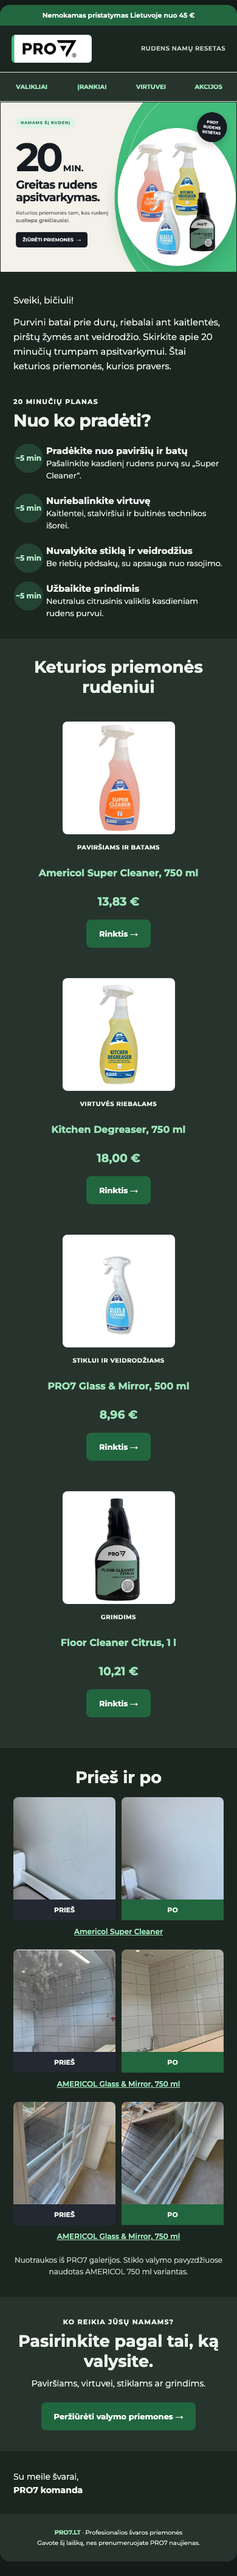
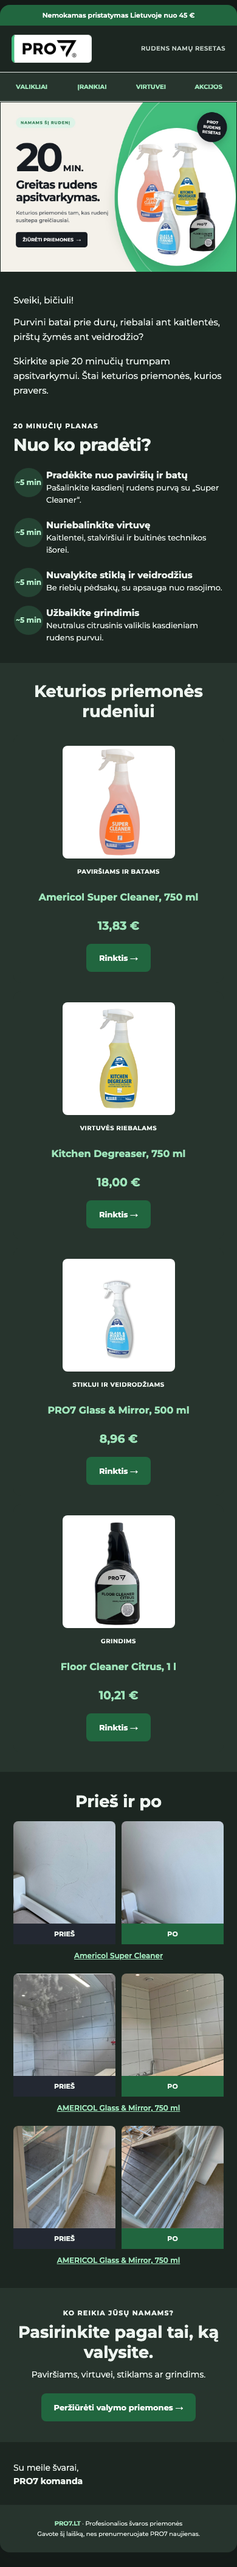
Refine newsletter intro and remove gallery note

Changed region(s): [[0.0308, 0.0311, 0.9538, 0.9328], [0.7385, 0.4353, 0.7692, 0.4664]]

diff --git a/nl2-20min-rudens-resetas/omnisend.html b/nl2-20min-rudens-resetas/omnisend.html
@@ -68,7 +68,8 @@
 
       <tr><td class="pad" style="padding:34px 38px 22px;font-family:Montserrat,Arial,sans-serif;color:#232832">
         <p class="greeting" style="margin:0 0 12px;font-size:15px;line-height:24px">Sveiki, [[contact.first_name|default:'bičiuli']]!</p>
-        <p style="margin:0;font-size:15px;line-height:24px">Purvini batai prie durų, riebalai ant kaitlentės, pirštų žymės ant veidrodžio. Skirkite apie 20 minučių trumpam apsitvarkymui. Štai keturios priemonės, kurios pravers.</p>
+        <p style="margin:0 0 16px;font-size:15px;line-height:24px">Purvini batai prie durų, riebalai ant kaitlentės, pirštų žymės ant veidrodžio?</p>
+        <p style="margin:0;font-size:15px;line-height:24px">Skirkite apie 20 minučių trumpam apsitvarkymui. Štai keturios priemonės, kurios pravers.</p>
       </td></tr>
 
       <tr><td class="pad" style="padding:17px 38px 12px;font-family:Montserrat,Arial,sans-serif;color:#232832">
@@ -122,7 +123,6 @@
 <table class="proof" role="presentation" width="100%" style="margin-top:16px"><tr><td width="50%" valign="top" style="padding:0 5px 0 0"><a href="https://www.pro7.lt/galerija"><img src="https://raw.githubusercontent.com/elaiskai/pro7-email-assets/5192498d5fea85a1396dcabc810df333ac065828/nl2-20min-rudens-resetas/assets/before-super-cleaner-email.jpg" width="258" alt="Siena prieš valymą, Americol Super Cleaner" style="width:100%;height:auto;border-radius:8px 8px 0 0"></a><div style="padding:9px;background:#232832;color:#ffffff;text-align:center;font-size:11px;line-height:16px;font-weight:700">PRIEŠ</div></td><td width="50%" valign="top" style="padding:0 0 0 5px"><a href="https://www.pro7.lt/galerija"><img src="https://raw.githubusercontent.com/elaiskai/pro7-email-assets/5192498d5fea85a1396dcabc810df333ac065828/nl2-20min-rudens-resetas/assets/after-super-cleaner-email.jpg" width="258" alt="Siena po valymo, Americol Super Cleaner" style="width:100%;height:auto;border-radius:8px 8px 0 0"></a><div style="padding:9px;background:#21663f;color:#ffffff;text-align:center;font-size:11px;line-height:16px;font-weight:700">PO</div></td></tr><tr><td colspan="2" align="center" style="padding:10px 0 4px;font-size:12px;line-height:18px;font-weight:600"><a href="https://www.pro7.lt/svaros-prekes/113-americol-super-cleaner-0-75-l-universalus-valiklis-koncentratas" style="color:#21663f;text-decoration:underline">Americol Super Cleaner</a></td></tr></table>
 <table class="proof" role="presentation" width="100%" style="margin-top:16px"><tr><td width="50%" valign="top" style="padding:0 5px 0 0"><a href="https://www.pro7.lt/galerija"><img src="https://raw.githubusercontent.com/elaiskai/pro7-email-assets/5192498d5fea85a1396dcabc810df333ac065828/nl2-20min-rudens-resetas/assets/pries-pro7-valymo-priemones-43f9a.jpg" width="258" alt="Veidrodis prieš valymą, AMERICOL Glass &amp; Mirror, 750 ml" style="width:100%;height:auto;border-radius:8px 8px 0 0"></a><div style="padding:9px;background:#232832;color:#ffffff;text-align:center;font-size:11px;line-height:16px;font-weight:700">PRIEŠ</div></td><td width="50%" valign="top" style="padding:0 0 0 5px"><a href="https://www.pro7.lt/galerija"><img src="https://raw.githubusercontent.com/elaiskai/pro7-email-assets/5192498d5fea85a1396dcabc810df333ac065828/nl2-20min-rudens-resetas/assets/po-pro7-valymo-priemones-3bbdc.jpg" width="258" alt="Veidrodis po valymo, AMERICOL Glass &amp; Mirror, 750 ml" style="width:100%;height:auto;border-radius:8px 8px 0 0"></a><div style="padding:9px;background:#21663f;color:#ffffff;text-align:center;font-size:11px;line-height:16px;font-weight:700">PO</div></td></tr><tr><td colspan="2" align="center" style="padding:10px 0 4px;font-size:12px;line-height:18px;font-weight:600"><a href="https://www.pro7.lt/svaros-prekes/114-americol-glass-and-mirror-cleanerstiklu-ir-veidrodziu-valiklis" style="color:#21663f;text-decoration:underline">AMERICOL Glass &amp; Mirror, 750 ml</a></td></tr></table>
 <table class="proof" role="presentation" width="100%" style="margin-top:16px"><tr><td width="50%" valign="top" style="padding:0 5px 0 0"><a href="https://www.pro7.lt/galerija"><img src="https://raw.githubusercontent.com/elaiskai/pro7-email-assets/5192498d5fea85a1396dcabc810df333ac065828/nl2-20min-rudens-resetas/assets/pries-pro7-valymo-priemones-3d3e8.jpg" width="258" alt="Langas prieš valymą, AMERICOL Glass &amp; Mirror, 750 ml" style="width:100%;height:auto;border-radius:8px 8px 0 0"></a><div style="padding:9px;background:#232832;color:#ffffff;text-align:center;font-size:11px;line-height:16px;font-weight:700">PRIEŠ</div></td><td width="50%" valign="top" style="padding:0 0 0 5px"><a href="https://www.pro7.lt/galerija"><img src="https://raw.githubusercontent.com/elaiskai/pro7-email-assets/5192498d5fea85a1396dcabc810df333ac065828/nl2-20min-rudens-resetas/assets/po-pro7-valymo-priemones-5f61f.jpg" width="258" alt="Langas po valymo, AMERICOL Glass &amp; Mirror, 750 ml" style="width:100%;height:auto;border-radius:8px 8px 0 0"></a><div style="padding:9px;background:#21663f;color:#ffffff;text-align:center;font-size:11px;line-height:16px;font-weight:700">PO</div></td></tr><tr><td colspan="2" align="center" style="padding:10px 0 4px;font-size:12px;line-height:18px;font-weight:600"><a href="https://www.pro7.lt/svaros-prekes/114-americol-glass-and-mirror-cleanerstiklu-ir-veidrodziu-valiklis" style="color:#21663f;text-decoration:underline">AMERICOL Glass &amp; Mirror, 750 ml</a></td></tr></table>
-<p class="muted" style="margin:16px 0 0;font-size:12px;line-height:19px;color:#59685f;text-align:center">Nuotraukos iš PRO7 galerijos. Stiklo valymo pavyzdžiuose naudotas AMERICOL 750 ml variantas.</p>
 </td></tr>
       <tr><td class="pad panel" bgcolor="#e8f3ed" align="center" style="padding:34px 38px;font-family:Montserrat,Arial,sans-serif;color:#232832">
         <div style="font-size:11px;line-height:14px;font-weight:700;letter-spacing:1.2px;color:#21663f;text-transform:uppercase">Ko reikia Jūsų namams?</div>

diff --git a/nl2-20min-rudens-resetas/index.html b/nl2-20min-rudens-resetas/index.html
@@ -76,7 +76,8 @@
 
       <tr><td class="pad" style="padding:34px 38px 22px;font-family:Montserrat,Arial,sans-serif;color:#232832">
         <p class="greeting" style="margin:0 0 12px;font-size:15px;line-height:24px">Sveiki, [[contact.first_name|default:'bičiuli']]!</p>
-        <p style="margin:0;font-size:15px;line-height:24px">Purvini batai prie durų, riebalai ant kaitlentės, pirštų žymės ant veidrodžio. Skirkite apie 20 minučių trumpam apsitvarkymui. Štai keturios priemonės, kurios pravers.</p>
+        <p style="margin:0 0 16px;font-size:15px;line-height:24px">Purvini batai prie durų, riebalai ant kaitlentės, pirštų žymės ant veidrodžio?</p>
+        <p style="margin:0;font-size:15px;line-height:24px">Skirkite apie 20 minučių trumpam apsitvarkymui. Štai keturios priemonės, kurios pravers.</p>
       </td></tr>
 
       <tr><td class="pad" style="padding:17px 38px 12px;font-family:Montserrat,Arial,sans-serif;color:#232832">
@@ -130,7 +131,6 @@
 <table class="proof" role="presentation" width="100%" style="margin-top:16px"><tr><td width="50%" valign="top" style="padding:0 5px 0 0"><a href="https://www.pro7.lt/galerija"><img src="assets/before-super-cleaner-email.jpg" width="258" alt="Siena prieš valymą, Americol Super Cleaner" style="width:100%;height:auto;border-radius:8px 8px 0 0"></a><div style="padding:9px;background:#232832;color:#ffffff;text-align:center;font-size:11px;line-height:16px;font-weight:700">PRIEŠ</div></td><td width="50%" valign="top" style="padding:0 0 0 5px"><a href="https://www.pro7.lt/galerija"><img src="assets/after-super-cleaner-email.jpg" width="258" alt="Siena po valymo, Americol Super Cleaner" style="width:100%;height:auto;border-radius:8px 8px 0 0"></a><div style="padding:9px;background:#21663f;color:#ffffff;text-align:center;font-size:11px;line-height:16px;font-weight:700">PO</div></td></tr><tr><td colspan="2" align="center" style="padding:10px 0 4px;font-size:12px;line-height:18px;font-weight:600"><a href="https://www.pro7.lt/svaros-prekes/113-americol-super-cleaner-0-75-l-universalus-valiklis-koncentratas" style="color:#21663f;text-decoration:underline">Americol Super Cleaner</a></td></tr></table>
 <table class="proof" role="presentation" width="100%" style="margin-top:16px"><tr><td width="50%" valign="top" style="padding:0 5px 0 0"><a href="https://www.pro7.lt/galerija"><img src="assets/pries-pro7-valymo-priemones-43f9a.jpg" width="258" alt="Veidrodis prieš valymą, AMERICOL Glass &amp; Mirror, 750 ml" style="width:100%;height:auto;border-radius:8px 8px 0 0"></a><div style="padding:9px;background:#232832;color:#ffffff;text-align:center;font-size:11px;line-height:16px;font-weight:700">PRIEŠ</div></td><td width="50%" valign="top" style="padding:0 0 0 5px"><a href="https://www.pro7.lt/galerija"><img src="assets/po-pro7-valymo-priemones-3bbdc.jpg" width="258" alt="Veidrodis po valymo, AMERICOL Glass &amp; Mirror, 750 ml" style="width:100%;height:auto;border-radius:8px 8px 0 0"></a><div style="padding:9px;background:#21663f;color:#ffffff;text-align:center;font-size:11px;line-height:16px;font-weight:700">PO</div></td></tr><tr><td colspan="2" align="center" style="padding:10px 0 4px;font-size:12px;line-height:18px;font-weight:600"><a href="https://www.pro7.lt/svaros-prekes/114-americol-glass-and-mirror-cleanerstiklu-ir-veidrodziu-valiklis" style="color:#21663f;text-decoration:underline">AMERICOL Glass &amp; Mirror, 750 ml</a></td></tr></table>
 <table class="proof" role="presentation" width="100%" style="margin-top:16px"><tr><td width="50%" valign="top" style="padding:0 5px 0 0"><a href="https://www.pro7.lt/galerija"><img src="assets/pries-pro7-valymo-priemones-3d3e8.jpg" width="258" alt="Langas prieš valymą, AMERICOL Glass &amp; Mirror, 750 ml" style="width:100%;height:auto;border-radius:8px 8px 0 0"></a><div style="padding:9px;background:#232832;color:#ffffff;text-align:center;font-size:11px;line-height:16px;font-weight:700">PRIEŠ</div></td><td width="50%" valign="top" style="padding:0 0 0 5px"><a href="https://www.pro7.lt/galerija"><img src="assets/po-pro7-valymo-priemones-5f61f.jpg" width="258" alt="Langas po valymo, AMERICOL Glass &amp; Mirror, 750 ml" style="width:100%;height:auto;border-radius:8px 8px 0 0"></a><div style="padding:9px;background:#21663f;color:#ffffff;text-align:center;font-size:11px;line-height:16px;font-weight:700">PO</div></td></tr><tr><td colspan="2" align="center" style="padding:10px 0 4px;font-size:12px;line-height:18px;font-weight:600"><a href="https://www.pro7.lt/svaros-prekes/114-americol-glass-and-mirror-cleanerstiklu-ir-veidrodziu-valiklis" style="color:#21663f;text-decoration:underline">AMERICOL Glass &amp; Mirror, 750 ml</a></td></tr></table>
-<p class="muted" style="margin:16px 0 0;font-size:12px;line-height:19px;color:#59685f;text-align:center">Nuotraukos iš PRO7 galerijos. Stiklo valymo pavyzdžiuose naudotas AMERICOL 750 ml variantas.</p>
 </td></tr>
       <tr><td class="pad panel" bgcolor="#e8f3ed" align="center" style="padding:34px 38px;font-family:Montserrat,Arial,sans-serif;color:#232832">
         <div style="font-size:11px;line-height:14px;font-weight:700;letter-spacing:1.2px;color:#21663f;text-transform:uppercase">Ko reikia Jūsų namams?</div>

diff --git a/nl2-20min-rudens-resetas/QA.md b/nl2-20min-rudens-resetas/QA.md
@@ -7,7 +7,7 @@ Patikrinta 2026-09-08. Importuoti `omnisend.html`, vietiniam redagavimui naudoti
 - Paveikslėlių commit: `5192498d5fea85a1396dcabc810df333ac065828`.
 - 12 paveikslėlių nuorodų, visos HTTPS, visos HTTP 200 ir Content-Type image/jpeg arba image/png.
 - Bendras paveikslėlių dydis 924 496 baitai.
-- HTML dydis 25 254 baitai prieš Omnisend apdorojimą.
+- HTML dydis 25 121 baitas prieš Omnisend apdorojimą.
 - 12 unikalių PRO7 nuorodų, visos HTTP 200. Patikrintos ir puslapių h1 antraštės.
 - Produktų ID: 113, 1416, 1283, 1375. Galerijos AMERICOL Glass & Mirror užrašai veda į ID 114.
 - Galerijoje po vieną nuorodą ant kiekvieno paveikslėlio, nėra nuorodomis apgaubtų lentelių.
